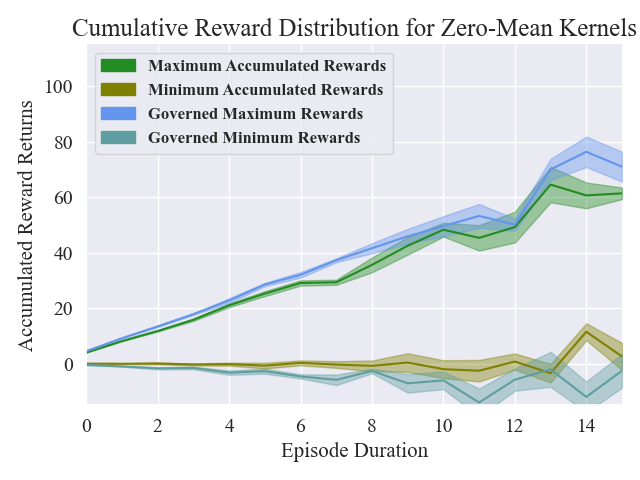
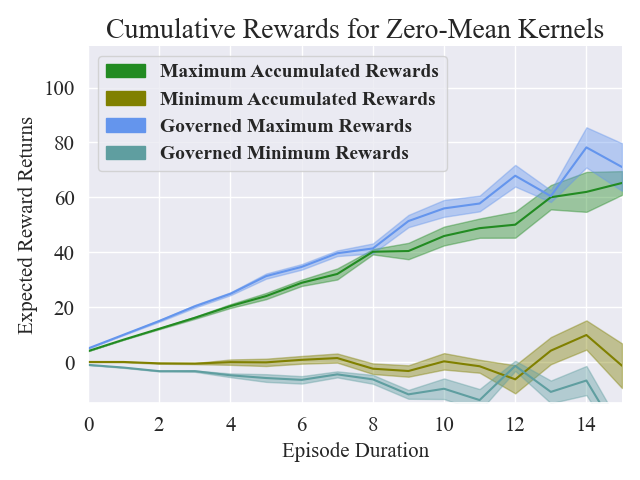
intermediate progress save

diff --git a/collusion_dilemma/common/plot_utils.py b/collusion_dilemma/common/plot_utils.py
@@ -1,12 +1,12 @@
 """visualization: impact of different experimentation parameters
    on reward accumulation distribution at various episodes length."""
+
 import numpy as np
 import seaborn as sns
 import matplotlib.pyplot as plt
 import matplotlib.patches as mpatches
 from collusion_dilemma.common.constants import *
 from collections import OrderedDict
-
 # import statements from matplotlib package font style setup
 import matplotlib.font_manager
 matplotlib.font_manager.findSystemFonts(fontpaths=None, fontext='ttf')
@@ -16,7 +16,6 @@ plt.rcParams['font.serif'] = ['Times New Roman'] + plt.rcParams['font.serif']
 # setting up the plotter function with 'Times New Roman' font style
 sns.set(font="Times New Roman")
 sns.set_style({'font.family': 'Times New Roman'})
-
 
 
 def _fill_reward_vals(val_arr, num_agents, pbrs_factor, hetero_agents=False, val_type="min", gov_rek=False, zero_mean=False):
@@ -29,7 +28,7 @@ def _fill_reward_vals(val_arr, num_agents, pbrs_factor, hetero_agents=False, val
                     if zero_mean:
                         val_arr[i][j] = 0 + -pbrs_factor*num_agents + np.round(np.random.uniform(low=-NOISE_VAL, high=NOISE_VAL), 3) * (i+1)
                     else:
-                        val_arr[i][j] = 0 + np.round(np.random.uniform(low=-NOISE_VAL, high=NOISE_VAL), 3) * (i+1)    
+                        val_arr[i][j] = 0 + .25*pbrs_factor*num_agents + np.round(np.random.uniform(low=-NOISE_VAL, high=NOISE_VAL), 3) * (i+1)    
                 else:
                     val_arr[i][j] = 0 + np.round(np.random.uniform(low=-NOISE_VAL, high=NOISE_VAL), 3) * (i+1)
             
@@ -48,7 +47,6 @@ def _fill_reward_vals(val_arr, num_agents, pbrs_factor, hetero_agents=False, val
             val_arr[i][j] = val_arr[i][j]*(i+1) # to obtain cummulative rewards
 
     return val_arr
-
 
 
 def _plotter(max_eps_len, rewards_values, reward_ci_values, title):
@@ -74,26 +72,26 @@ def _plotter(max_eps_len, rewards_values, reward_ci_values, title):
     plt.xlim([0, max_eps_len-1])
     ax.set_ylim([-15., 115])
     plt.xlabel('Episode Duration', fontsize=15)
-    plt.ylabel('Accumulated Reward Returns', fontsize=15)
+    plt.ylabel('Expected Reward Returns', fontsize=15)
     lgd=plt.legend(
     frameon=True, fancybox=True, \
     # prop={'size':14}, handles=color_patch, loc="best")
-    prop={'weight':'bold', 'size':12}, handles=color_patch, loc="upper left")
-    plt.title(title, fontsize=18)
+    prop={'weight':'bold', 'size':14}, handles=color_patch, loc="upper left")
+    plt.title(title, fontsize=20)
     ax = plt.gca()
     
     # uncomment for adding custom tick values
     # ax.set_xticks([10, 20, 30, 40, 50])
     # ax.set_xticklabels([0.5, 1, 1.5, 2.5, 3.0])
 
-    plt.setp(ax.get_xticklabels(), fontsize=14)
-    plt.setp(ax.get_yticklabels(), fontsize=14)
+    plt.setp(ax.get_xticklabels(), fontsize=15)
+    plt.setp(ax.get_yticklabels(), fontsize=15)
     sns.despine()
     plt.tight_layout()
     plt.show()
 
 
-def plot_reward_dist(max_eps_len=16, num_agents=4, hetero_agents=True, zero_mean=False, title=None):
+def plot_reward_dist(max_eps_len=16, num_agents=4, hetero_agents=True, zero_mean=True, title=None):
     if title is None:
         title = ""
     
@@ -144,4 +142,4 @@ def plot_reward_dist(max_eps_len=16, num_agents=4, hetero_agents=True, zero_mean
 
 
 if __name__ == "__main__":
-    plot_reward_dist(title="Cumulative Reward Distribution for Baseline Kernels")
+    plot_reward_dist(title="Cumulative Rewards for Zero-Mean Kernels")

diff --git a/marl_trainers/baselines/ppo_agent_trainer.py b/marl_trainers/baselines/ppo_agent_trainer.py
@@ -1,9 +1,9 @@
-"""A simple multi-agent env baseline with N-agent social dilemma problem scenario.
+"""A simple multi-agent env baseline with N-agent social dilemma problem.
 
 This script demonstrates running the following policies in competition for the above problem:
     (1) heuristic policy of repeating the same move
     (2) heuristic policy of beating the last opponent move
-    (3) LSTM/feedforward PG policies
+    (3) LSTM/feedforward PPO policies
     (4) LSTM policy with custom entropy loss
 """
 
@@ -23,11 +23,11 @@ import ray
 from ray import air, tune
 from ray.rllib.algorithms.algorithm_config import AlgorithmConfig
 from ray.rllib.algorithms.pg import (
-    PG,
-    PGConfig,
-    PGTF2Policy,
-    PGTF1Policy,
-    PGTorchPolicy,
+    PPO,
+    PPOConfig,
+    PPOTF2Policy,
+    PPOTF1Policy,
+    PPOTorchPolicy,
 )
 from ray.rllib.env import PettingZooEnv
 from ray.rllib.examples.policy.rock_paper_scissors_dummies import (
@@ -46,16 +46,19 @@ torch, _ = try_import_torch()
 def config_loader(config_path):
     return OmegaConf.load(config_path)
 
-# load the configuration file
+# load the specific single configuration file for carrying out the experiment
 # TODO: uncomment the configuration to select amongst homogenous or heterogenous agents
-# configs = config_loader(cfg_pth.A3C_BASELINE_HMG_TRAINER_CONFIG) # Option 1
+# TODO: change the gov_rek flag in the configuration file for loading the governance layer
+
+configs = config_loader(cfg_pth.PPO_BASELINE_HMG_TRAINER_CONFIG) # Option 1
 # configs = config_loader(cfg_pth.A3C_BASELINE_HMG_TRAINER_CONFIG) # Option 2
-configs = config_loader(cfg_pth.A3C_LARGE_HTR_TRAINER_CONFIG) # Option 3
+# configs = config_loader(cfg_pth.A3C_LARGE_HTR_TRAINER_CONFIG) # Option 3
 # configs = config_loader(cfg_pth.A3C_LARGE_HMG_TRAINER_CONFIG) # Option 4
 
 
 def env_creator(config):
     env = CollusionDilemmaEnv(num_agents=config.num_agents,
+                              gov_rek=config.gov_rek,
                               hetero_prob=config.hetero_prob,
                               eps_len=config.eps_len)
     return env
@@ -215,3 +218,8 @@ if __name__ == "__main__":
 
     run_with_custom_entropy_loss(configs, stop=stop)
     print("run_with_custom_entropy_loss: ok.")
+
+# https://github.com/ray-project/ray/blob/master/rllib/examples/rock_paper_scissors_multiagent.py, default implementation taken
+# https://flatland.aicrowd.com/environment/interface.html, setup PPO
+# https://github.com/ray-project/ray/blob/master/rllib/examples/two_step_game.py, setup stop values, add them to config as well
+# https://github.com/ray-project/ray/blob/master/rllib/examples/custom_eval.py, evaluation script metric setup

diff --git a/marl_trainers/configs/config_paths.py b/marl_trainers/configs/config_paths.py
@@ -1,6 +1,8 @@
 from pathlib import Path
-# paths defined relative to the  
-A3C_BASELINE_HMG_TRAINER_CONFIG = Path("marl_trainers/configs/a3c_baseline_hmg_trainer_params.yaml")
-A3C_BASELINE_HTR_TRAINER_CONFIG = Path("marl_trainers/configs/a3c_baseline_htr_trainer_params.yaml")
-A3C_LARGE_HMG_TRAINER_CONFIG = Path("marl_trainers/configs/a3c_large_hmg_trainer_params.yaml")
-A3C_LARGE_HTR_TRAINER_CONFIG = Path("marl_trainers/configs/a3c_large_htr_trainer_params.yaml")
+# paths defined relative to the base project directory
+# change the gov_rek flag in the configuration file for loading the governance layer
+
+PPO_BASELINE_HMG_TRAINER_CONFIG = Path("marl_trainers/configs/ppo_baseline_hmg_trainer_params.yaml")
+PPO_BASELINE_HTR_TRAINER_CONFIG = Path("marl_trainers/configs/ppo_baseline_htr_trainer_params.yaml")
+PPO_LARGE_HMG_TRAINER_CONFIG = Path("marl_trainers/configs/ppo_large_hmg_trainer_params.yaml")
+PPO_LARGE_HTR_TRAINER_CONFIG = Path("marl_trainers/configs/ppo_large_htr_trainer_params.yaml")

diff --git a/collusion_dilemma/common/constants.py b/collusion_dilemma/common/constants.py
@@ -6,6 +6,6 @@ HETERO_COLLUSION_PAYOFFS = np.array([[[0, 0], [0, 2]], [[1, 0], [1, 2]]], dtype=
 BASE_AGENT_PAYOFFS = {'no_collusion': 0., 'collusion': 1.} # for heterogeneous setup, other agents are base agents
 HETERO_AGENT_PAYOFFS = {'no_collusion': 0., 'collusion': 2.} # for heterogeneous setup, only one agent dominates
 NOISE_VAL = 0.1
-TEMPERATURE_VAL = 0.12
-NON_ZERO_MEAN_KERNEL = np.array([[[0, 0], [0.5, 0.5]], [[0.5, 0.5], [1, 1]]], dtype=np.float32) # kernels with period size = 2, symmetrical
-ZERO_MEAN_KERNEL = np.array([[[-1, -1], [0, 0]], [[0, 0], [1, 1]]], dtype=np.float32) # kernel with negative rewards, symmetrical
+TEMPERATURE_VAL = 0.1
+NON_ZERO_MEAN_KERNEL = np.array([[[0.25, 0.25], [0.25, 0.75]], [[0.75, 0.25], [1, 1]]], dtype=np.float32) # kernels with period size = 2, symmetrical
+ZERO_MEAN_KERNEL = np.array([[[-1, -1], [-1, 1]], [[1, -1], [1, 1]]], dtype=np.float32) # kernel with negative rewards, symmetrical

diff --git a/collusion_dilemma/common/collusion_payoffs.py b/collusion_dilemma/common/collusion_payoffs.py
@@ -32,7 +32,7 @@ def _add_temperature_tuning(payoff_values, temperature_val):
     return payoff_values
 
 class CollusionPayoffs():
-    def __init__(self, num_agents=2, hetero_prob=0., eps_len=1, gov_rek=False, zero_mean=False, noise=0., const_noise=False, temperature=0.):
+    def __init__(self, num_agents=2, hetero_prob=0., eps_len=1, gov_rek=False, zero_mean=True, noise=0.1, const_noise=False, temperature=0.1):
         self.num_agents = num_agents
         self.hetero_prob = hetero_prob
         self.eps_len = eps_len
